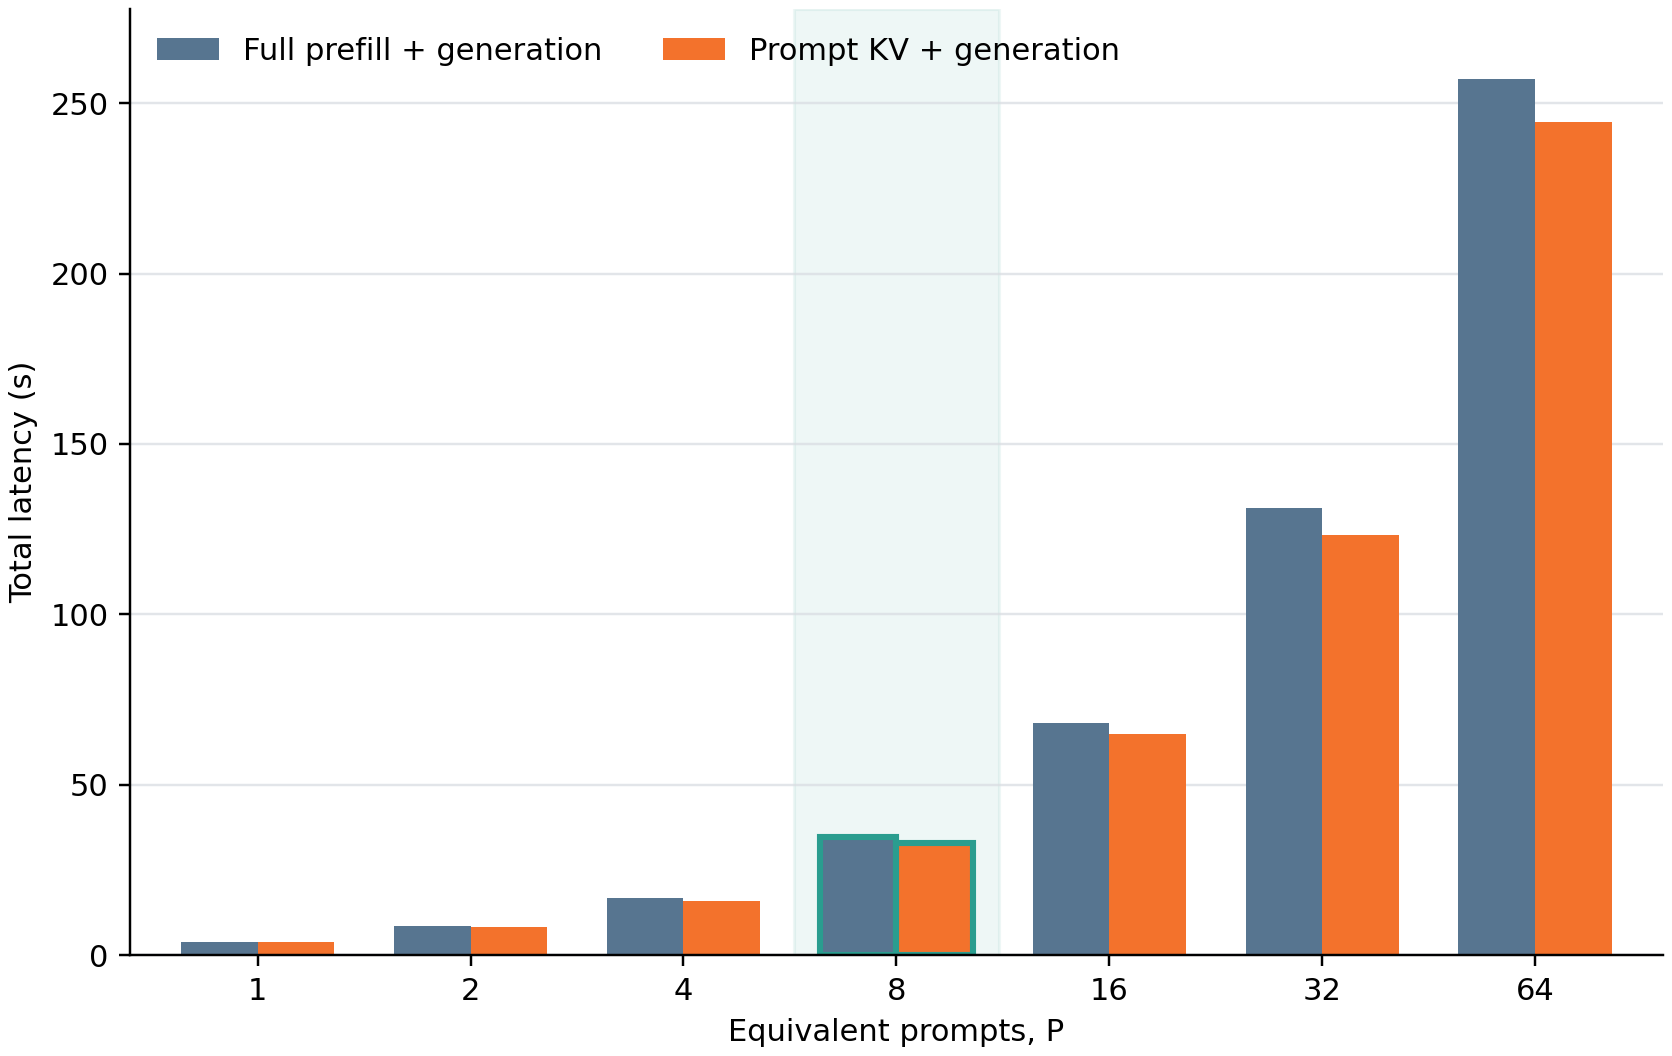
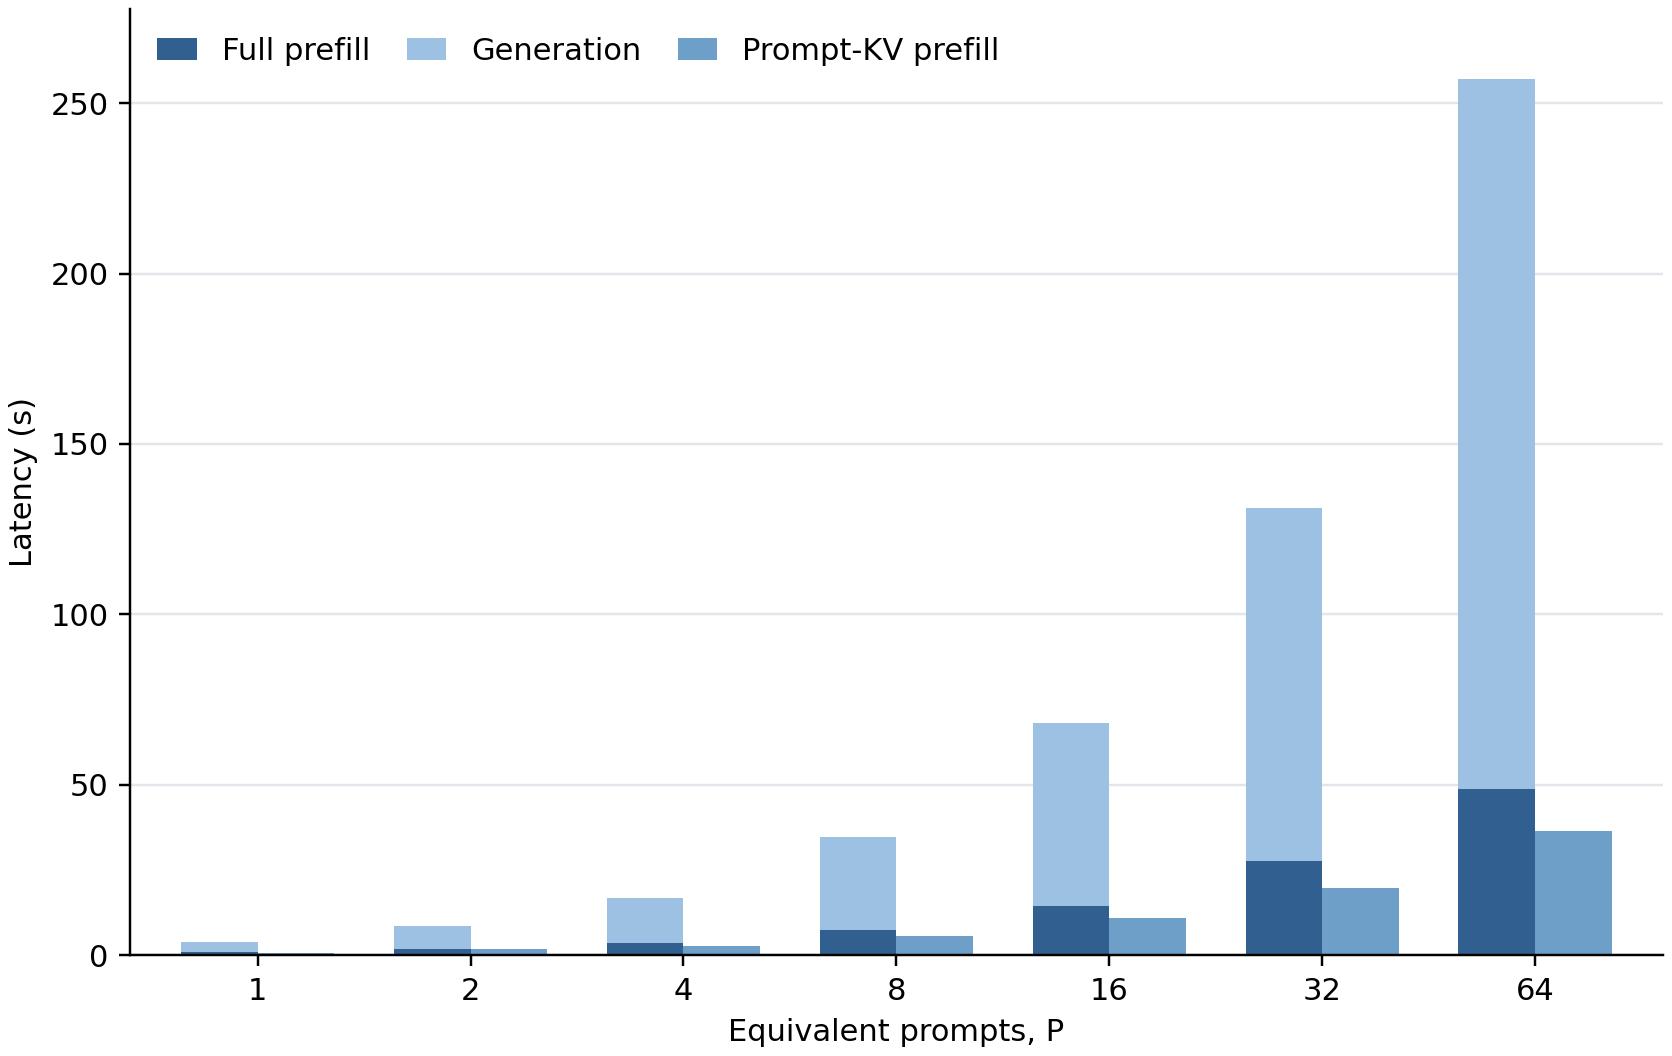
Render clean stacked KV latency bars without P8 highlight

diff --git a/src/mprisk/viz/plot_kv_latency_stability_tables.py b/src/mprisk/viz/plot_kv_latency_stability_tables.py
@@ -313,13 +313,12 @@ def _render_latency(rows: list[dict[str, Any]], expected: tuple[int, ...], pdf: 
 def _render_latency_bar(
     rows: list[dict[str, Any]], expected: tuple[int, ...], pdf: Path, png: Path
 ) -> None:
-    """Render total end-to-end latency as equal-width grouped bars.
+    """Render prefill/generation timing as two bars per prompt budget.
 
-    The legacy latency figure is retained above for reproducibility.  This
-    figure is the publication-facing view: each P occupies one categorical
-    slot, so the bar widths and gaps do not change with the numerical value of
-    P.  The two series are the recorded full-prefill and Prompt-KV
-    end-to-end totals (prefill plus the same generation time).
+    The Full bar is stacked: its lower segment is full prefill and its upper
+    segment is generation.  The Prompt-KV bar contains only the measured KV
+    prefill, because this cache path does not retain generation timing.  This
+    keeps the two timing protocols visually and semantically separate.
     """
     by_p = {int(row["prompt_count"]): row for row in rows}
     missing = [p for p in expected if p not in by_p]
@@ -328,8 +327,9 @@ def _render_latency_bar(
 
     ordered = [by_p[p] for p in expected]
     x = list(range(len(expected)))
-    full = [float(row["full_end_to_end_seconds"]) for row in ordered]
-    kv = [float(row["prompt_kv_end_to_end_seconds"]) for row in ordered]
+    full_prefill = [float(row["full_prefill_seconds"]) for row in ordered]
+    generation = [float(row["generation_seconds"]) for row in ordered]
+    prompt_kv = [float(row["prompt_kv_prefill_seconds"]) for row in ordered]
     width = 0.36
 
     plt.rcParams.update(
@@ -341,41 +341,49 @@ def _render_latency_bar(
         }
     )
     fig, ax = plt.subplots(figsize=(7.6, 4.8), constrained_layout=True)
-    full_bars = ax.bar(
-        [value - width / 2 for value in x],
-        full,
-        width=width,
-        color="#577590",
-        label="Full prefill + generation",
-        zorder=2,
-    )
-    kv_bars = ax.bar(
-        [value + width / 2 for value in x],
-        kv,
-        width=width,
-        color="#f3722c",
-        label="Prompt KV + generation",
-        zorder=2,
-    )
+    full_x = [value - width / 2 for value in x]
+    kv_x = [value + width / 2 for value in x]
 
-    # P=8 is the selected knee/constraint point.  Use a restrained outline so
-    # the selection remains visible without adding an annotation to the plot.
-    if 8 in expected:
-        selected = expected.index(8)
-        ax.axvspan(selected - 0.48, selected + 0.48, color="#2a9d8f", alpha=0.08, zorder=0)
-        for bar in (full_bars[selected], kv_bars[selected]):
-            bar.set_edgecolor("#2a9d8f")
-            bar.set_linewidth(2.0)
+    # The Full protocol includes generation; Prompt-KV reports only prefill.
+    ax.bar(
+        full_x,
+        full_prefill,
+        width=width,
+        color="#315f8f",
+        label="Full prefill",
+        zorder=2,
+    )
+    ax.bar(
+        full_x,
+        generation,
+        width=width,
+        bottom=full_prefill,
+        color="#9dc1e2",
+        label="Generation",
+        zorder=2,
+    )
+    ax.bar(
+        kv_x,
+        prompt_kv,
+        width=width,
+        color="#6e9fc8",
+        label="Prompt-KV prefill",
+        zorder=2,
+    )
 
     ax.set_xticks(x)
     ax.set_xticklabels([str(value) for value in expected])
     ax.set_xlabel("Equivalent prompts, P")
-    ax.set_ylabel("Total latency (s)")
+    ax.set_ylabel("Latency (s)")
     ax.set_xlim(-0.6, len(expected) - 0.4)
-    ymax = max(full + kv)
+    ymax = max(
+        full_prefill[index] + generation[index]
+        for index in range(len(ordered))
+    )
     ax.set_ylim(0, ymax * 1.08)
     ax.grid(axis="y", color="#d9dde2", linewidth=0.8, alpha=0.75, zorder=1)
-    ax.legend(frameon=False, loc="upper left", ncol=2)
+    ax.set_axisbelow(True)
+    ax.legend(frameon=False, loc="upper left", ncol=3, handlelength=1.3, columnspacing=1.2)
     fig.savefig(pdf, format="pdf")
     fig.savefig(png, format="png", dpi=220)
     plt.close(fig)